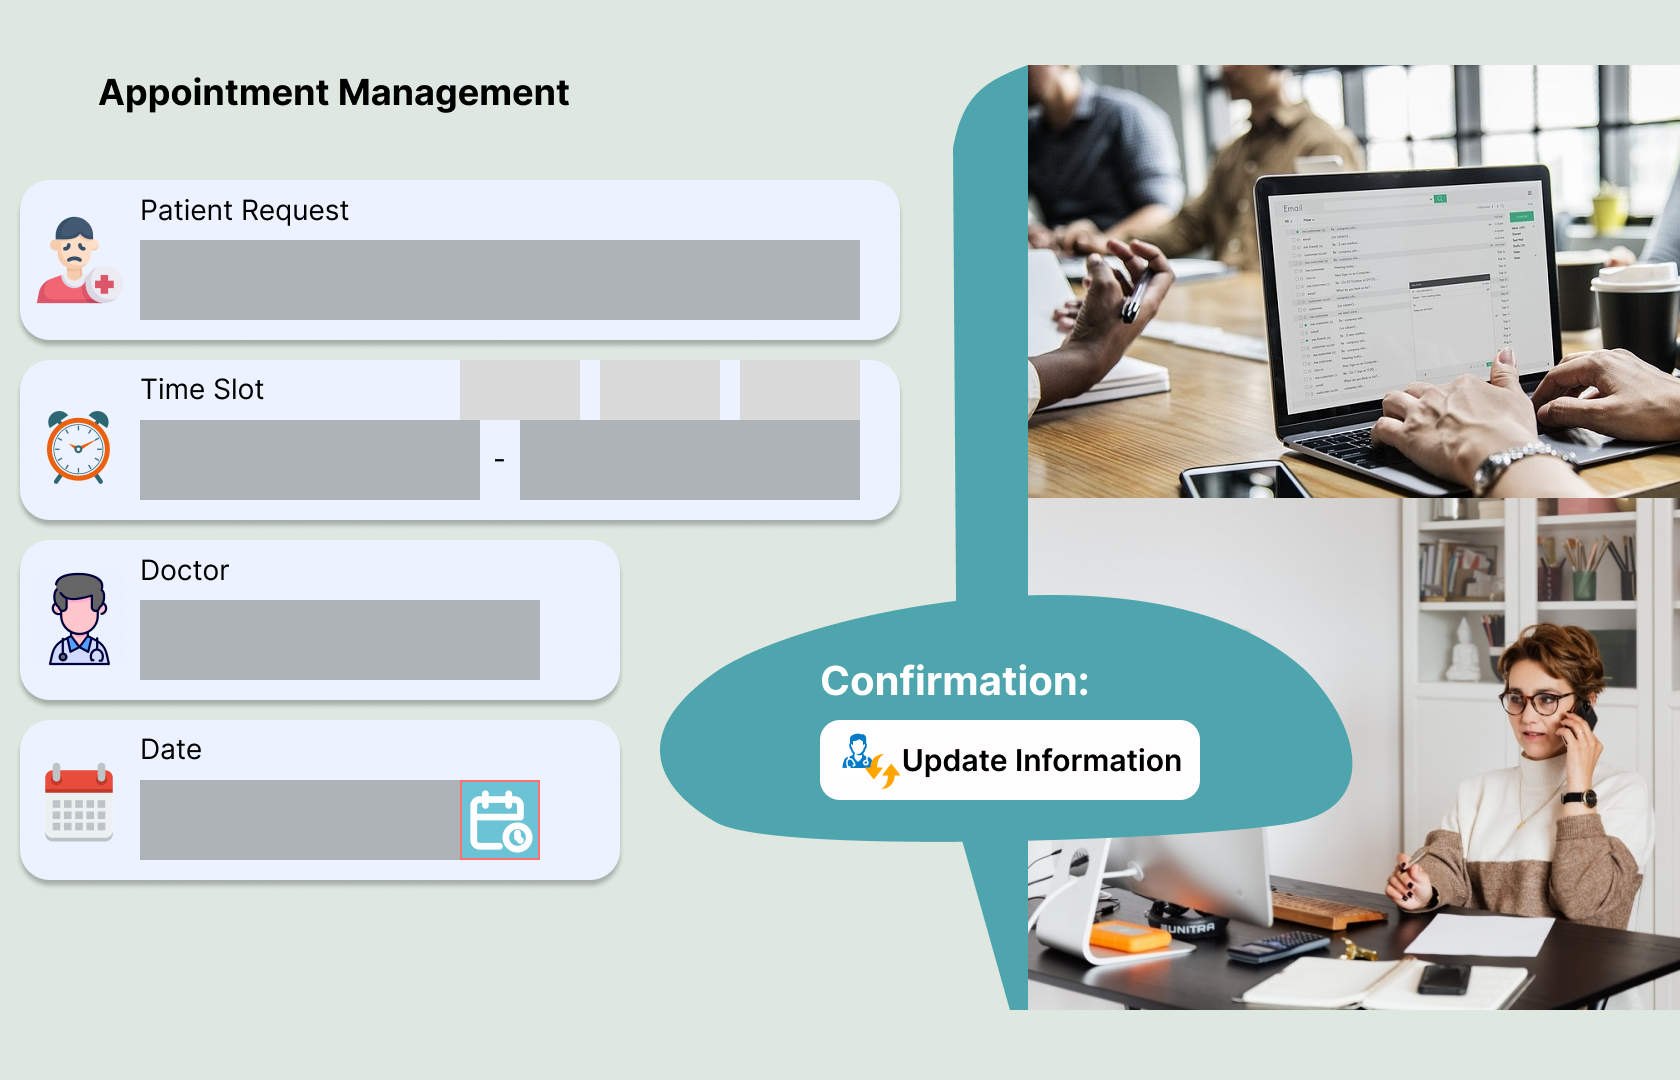
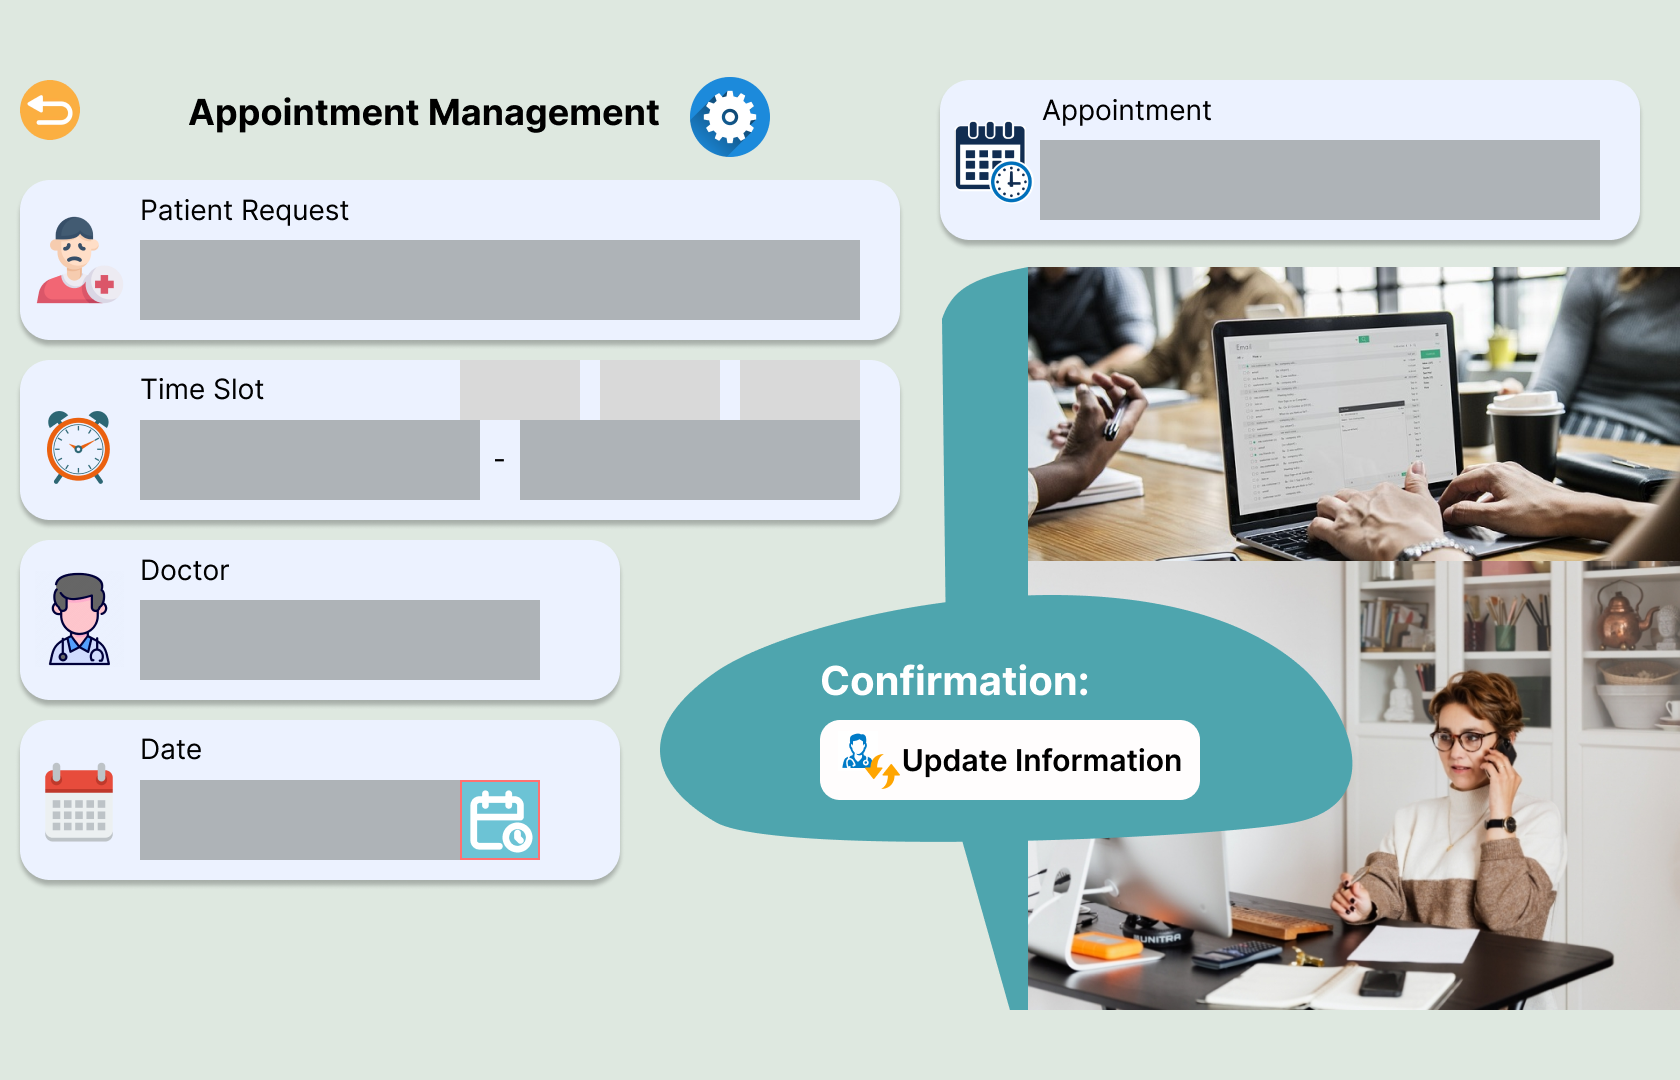
Update coding

Changed region(s): [[0.5571, 0.0611, 1.0, 0.9472], [0.0, 0.0611, 0.4643, 0.1528]]

diff --git a/views/appointments/adminManageAppointments.py b/views/appointments/adminManageAppointments.py
@@ -108,7 +108,7 @@ class AdminManageAppointments(Frame):
         # Appointment Management
         self.returnmanagementBtn = self.controller.buttonCreator(
             ipath=d["appointmentButtons"][5],
-            x=20, y=60, classname="returnmanagement", root=self.manageAppointmentsFrame,
+            x=20, y=80, classname="returnmanagement", root=self.manageAppointmentsFrame,
             buttonFunction=lambda: [
                 self.manageAppointmentsFrame.grid_remove()],
         )
@@ -601,6 +601,48 @@ class AdminManageAppointments(Frame):
         self.update_app_load_timeslots()
         self.update_app_load_doctor_menu()
         self.update_app_load_datepicker()
+        self.update_appointment()
+
+    def update_appointment(self, req:AppointmentRequest):
+        prisma = self.prisma
+        R = self.manageAppointmentsFrame
+        self.appointments = prisma.appointment.find_many(
+            where={
+                "appRequest": {"is": {"clinic": {"is": {"admin": {"some": {"userId": self.user.id}}}}}}
+            },
+            include={
+                "doctor": {"include": {"user": True}},
+                "appRequest": {"include": {"clinic": True, "patient": {"include": {"user": True, "healthRecord": True}}, "appointments": True}},
+                "prescription": True,
+
+            }
+        )
+        self.appointment: AppointmentRequest = self.appointment[0]
+        self.currApp = StringVar()
+        self.appointment_menu = self.controller.menubuttonCreator(
+            x=1040, y=140, width=560, height=80, root=R, classname="update_app_appointment_menu",
+            listofvalues=[
+                f"{req.appointments}" ],
+            variable=self.currApp,
+            command=lambda: [
+                self.update_app_set_appointment(self.currDoc.get())
+            ],
+            text="Select Appointment",
+        )
+        self.currApp.set(
+            f"{req.appointments}")
+        self.appointment_menu.configure(
+            text=f"{req.appointments}"
+        )
+        self.update_app_set_appointment(self.currDoc.get())
+
+    def update_app_set_appointment(self, option: str, req:AppointmentRequest):
+        self.appointment = list(
+            filter(
+                lambda req: f"{req.appointments}"== option,
+                self.appointments
+            )
+        )[0]
 
     def update_app_load_doctor_menu(self):
         prisma = self.prisma
